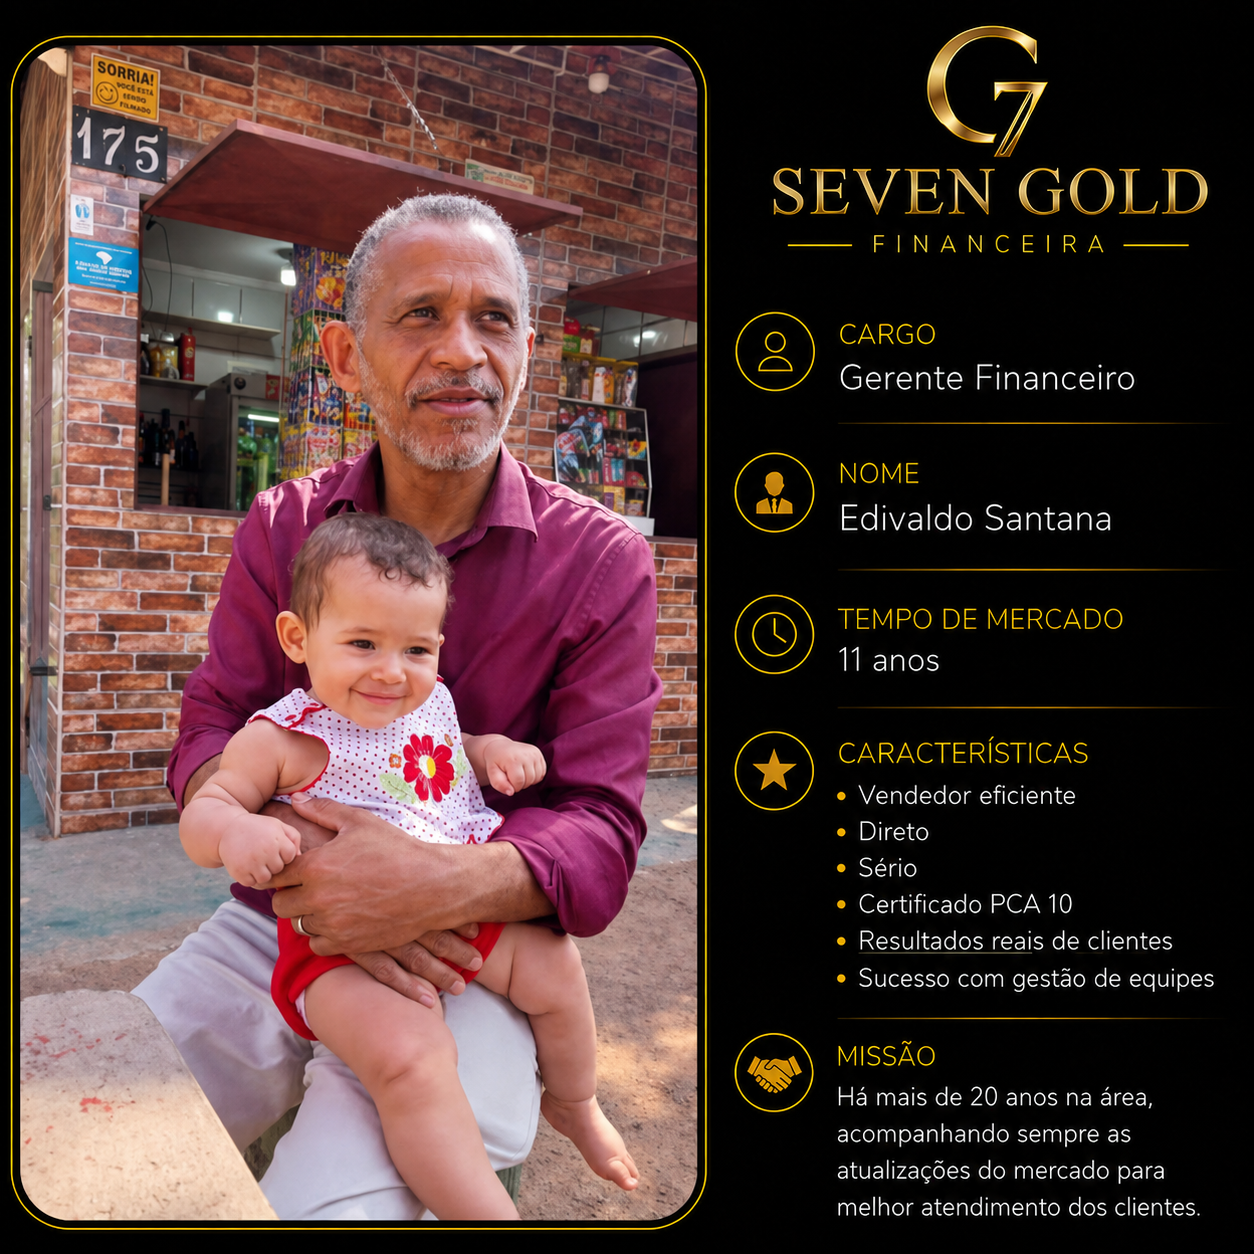
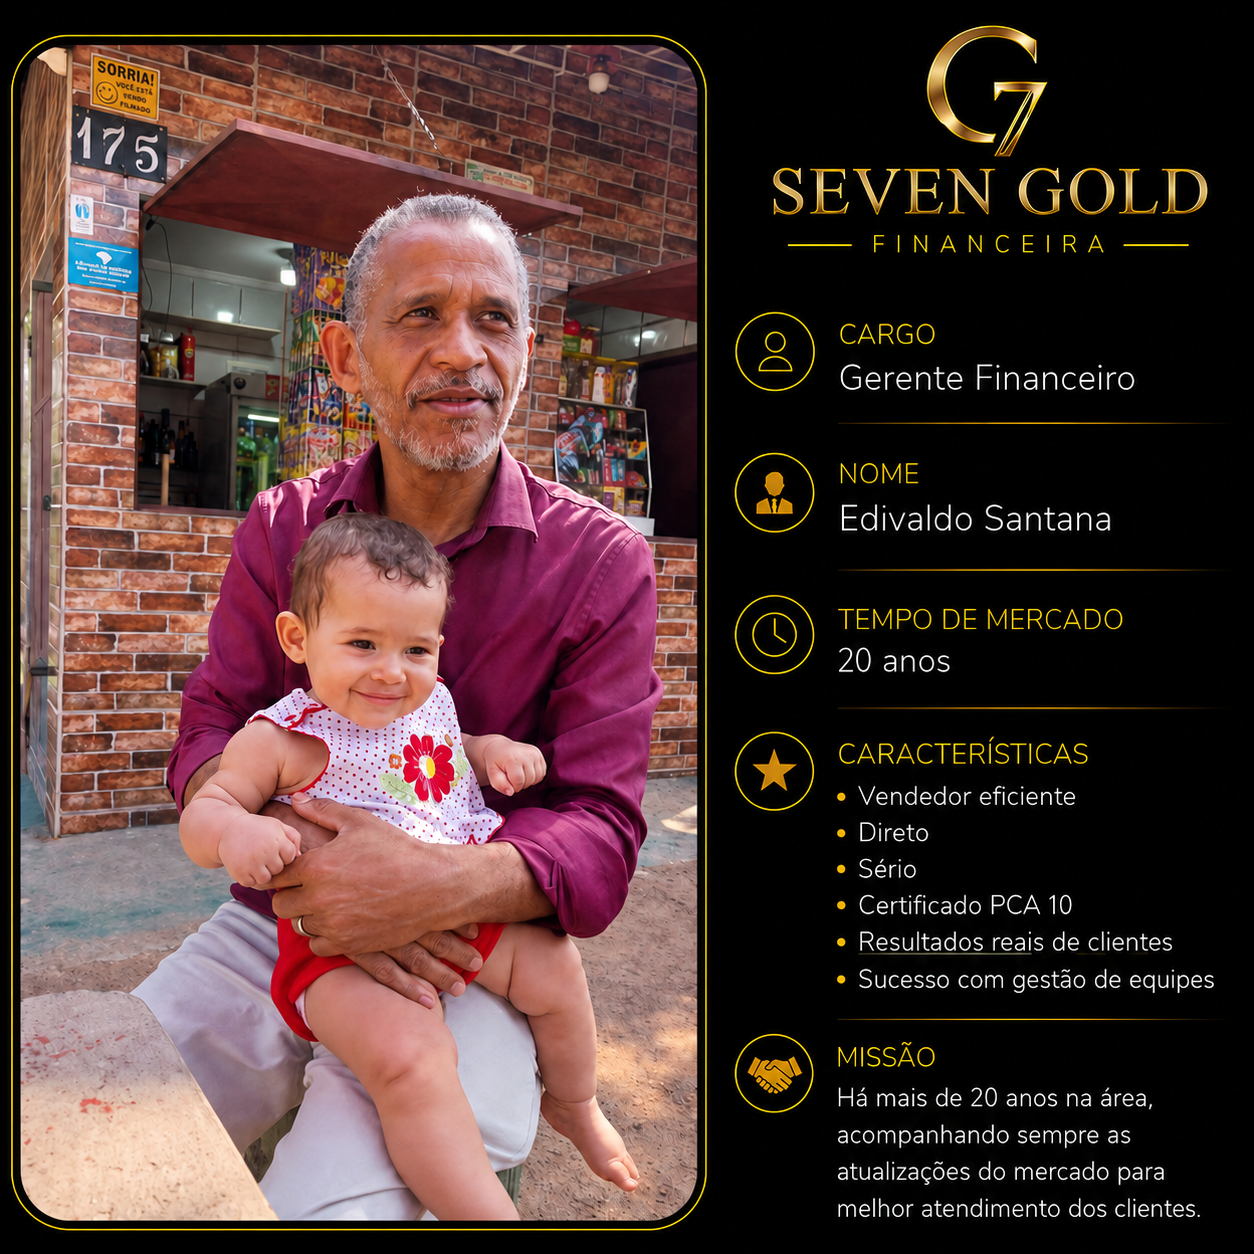
Atualiza card do Edivaldo para 20 anos (#38)

diff --git a/index.html b/index.html
@@ -79,7 +79,7 @@
       <div class="specialists-carousel" aria-label="Especialistas Seven Gold">
         <button class="carousel-arrow carousel-prev" type="button" aria-label="Especialista anterior">‹</button>
         <div class="specialists-track" tabindex="0">
-          <article class="specialist-card"><img src="assets/especialista-edivaldo-sobre-mim-20260821.png" alt="Apresentação profissional de Edivaldo Santana, Gerente Financeiro" /></article>
+          <article class="specialist-card"><img src="assets/especialista-edivaldo-sobre-mim-20260821.png?v=20260821-2" alt="Apresentação profissional de Edivaldo Santana, Gerente Financeiro" /></article>
           <article class="specialist-card"><img src="assets/especialista-jonata-sobre-mim-20260721.png" alt="Apresentação profissional de Jonatã Santana, Coordenador Comercial" /></article>
           <article class="specialist-card"><img src="assets/especialista-felipe-sobre-mim-20260721.jpg" alt="Apresentação profissional de Felipe Lobato, Diretor Comercial" /></article>
           <article class="specialist-card"><img src="assets/especialista-elainy-sobre-mim-20260721-v2.jpg" alt="Apresentação profissional de Elainy Martins, Consultora Financeira" /></article>
